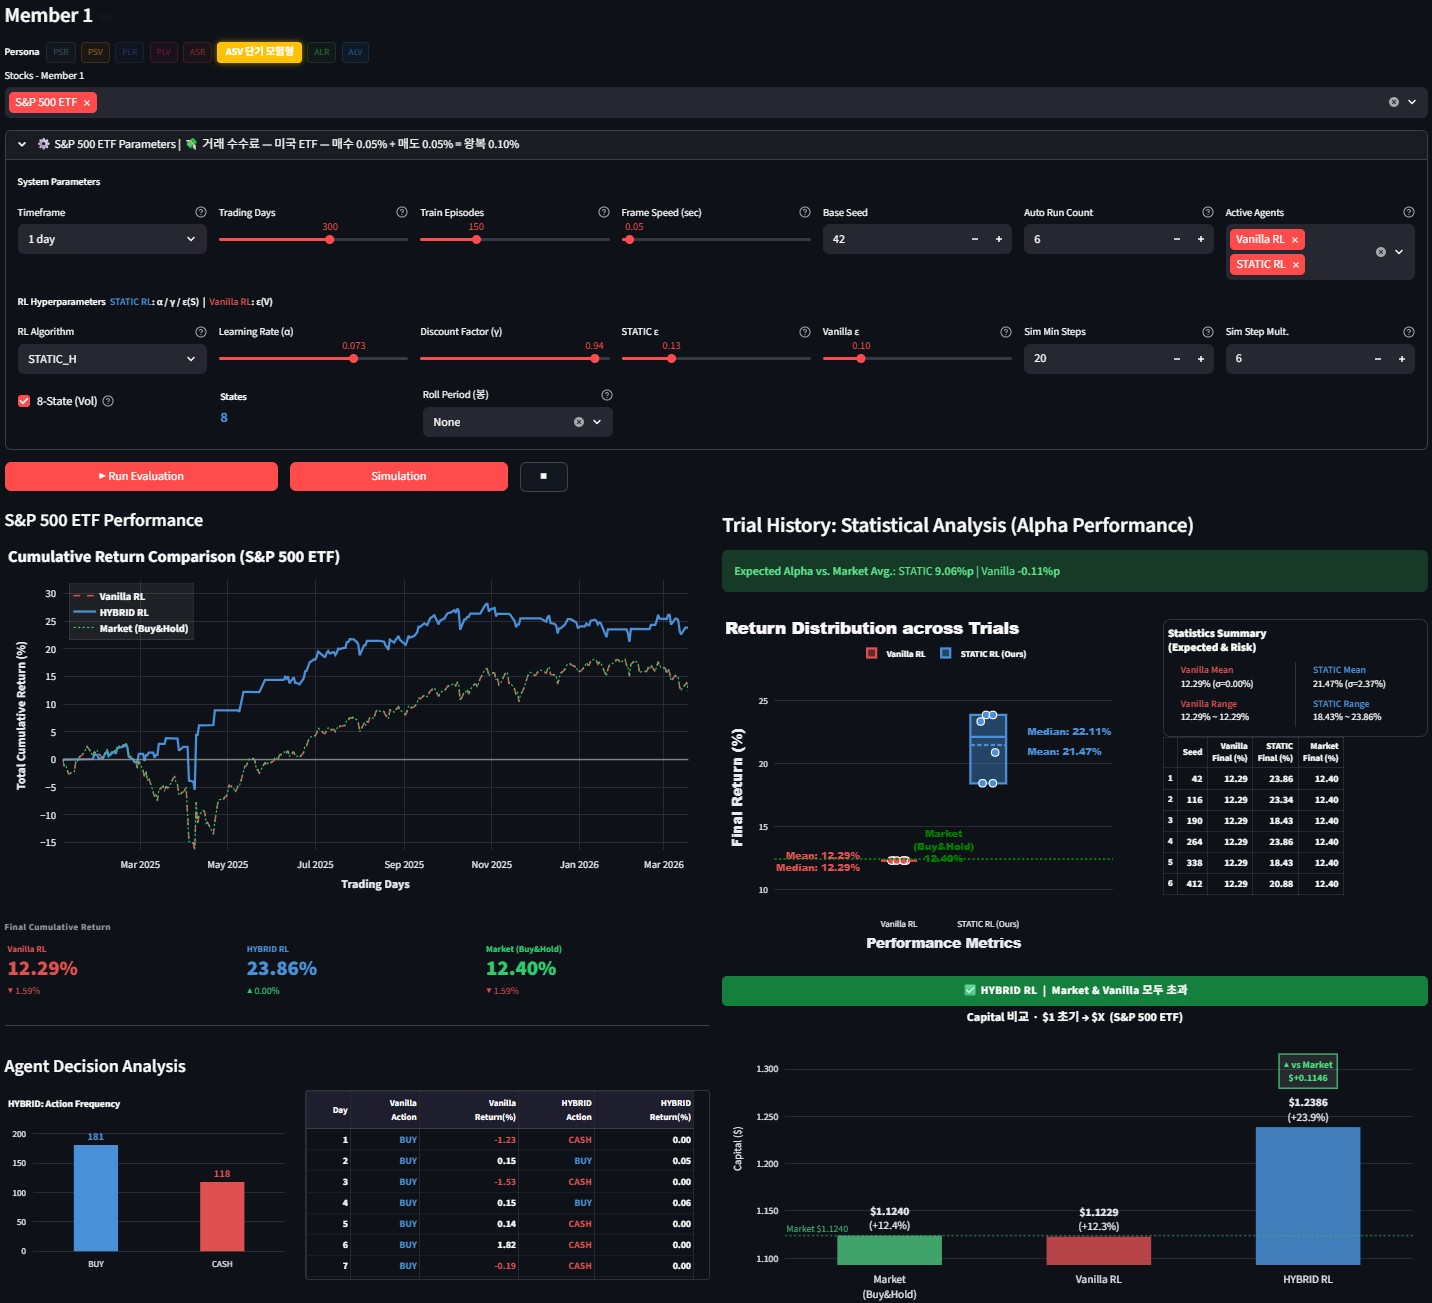
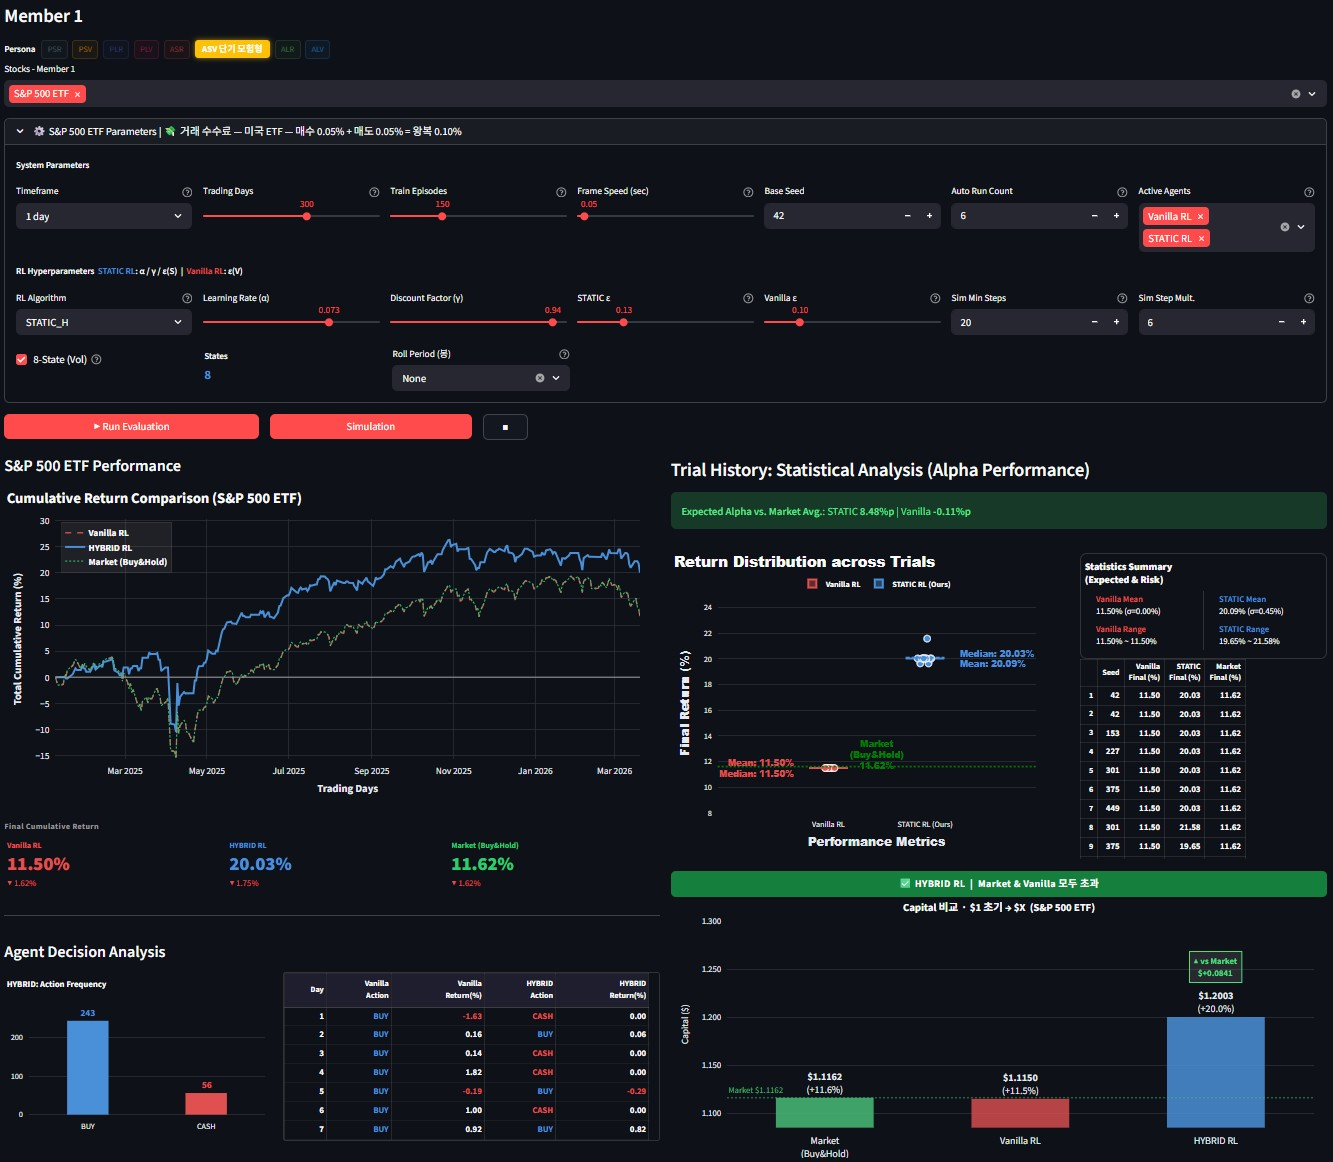
CMF 2-4

diff --git a/Presentation_Bellman_to_Static_H.html b/Presentation_Bellman_to_Static_H.html
@@ -966,7 +966,7 @@
           <div class="rb-label">
             TASK-CONSTRAINED RL COLD-START · MULTI-AGENT TRADING SIMULATOR
           </div>
-          <div class="rb-val"><!-- @tf-banner@ -->Team Fund: +35.47%</div>
+          <div class="rb-val"><!-- @tf-banner@ -->Team Fund: +32.82%</div>
           <div class="rb-desc" style="color: #c0e8d0">
             6종목 전 양수 Alpha Gap · PG Actor-Critic Optimizer · Tabular PPO
             Clipping + Adaptive Temperature
@@ -1001,8 +1001,7 @@
                 margin: 0.5rem 0;
               "
             >
-              <!-- @m1-ret@ -->+21.84%
-            </div>
+              <!-- @m1-ret@ -->+20.03%</div>
             <div
               style="
                 font-family: var(--mono);
@@ -1010,8 +1009,7 @@
                 color: var(--green);
               "
             >
-              <!-- @m1-alpha@ -->Alpha +8.4%p
-            </div>
+              <!-- @m1-alpha@ -->Alpha +8.4%p</div>
             <div style="font-size: 0.72rem; color: #a0b8cc; margin-top: 0.3rem">
               8-State · lr=0.073 · γ=0.94
             </div>
@@ -1035,8 +1033,7 @@
                 margin: 0.5rem 0;
               "
             >
-              <!-- @m2-ret@ -->+60.62%
-            </div>
+              <!-- @m2-ret@ -->+64.79%</div>
             <div
               style="
                 font-family: var(--mono);
@@ -1044,8 +1041,7 @@
                 color: var(--gold);
               "
             >
-              <!-- @m2-alpha@ -->Alpha +26.3%p
-            </div>
+              <!-- @m2-alpha@ -->Alpha +33.1%p</div>
             <div style="font-size: 0.72rem; color: #a0b8cc; margin-top: 0.3rem">
               4-State · lr=0.080 · γ=0.91
             </div>
@@ -1069,8 +1065,7 @@
                 margin: 0.5rem 0;
               "
             >
-              <!-- @m3-ret@ -->+124.33%
-            </div>
+              <!-- @m3-ret@ -->+125.64%</div>
             <div
               style="
                 font-family: var(--mono);
@@ -1078,8 +1073,7 @@
                 color: var(--green);
               "
             >
-              <!-- @m3-alpha@ -->Alpha +9.4%p
-            </div>
+              <!-- @m3-alpha@ -->Alpha +10.7%p</div>
             <div style="font-size: 0.72rem; color: #a0b8cc; margin-top: 0.3rem">
               8-State · lr=0.050 · γ=0.88
             </div>
@@ -1103,8 +1097,7 @@
                 margin: 0.5rem 0;
               "
             >
-              <!-- @m4-ret@ -->+51.03%
-            </div>
+              <!-- @m4-ret@ -->+44.95%</div>
             <div
               style="
                 font-family: var(--mono);
@@ -1112,8 +1105,7 @@
                 color: var(--green);
               "
             >
-              <!-- @m4-alpha@ -->Alpha +20.7%p
-            </div>
+              <!-- @m4-alpha@ -->Alpha +14.7%p</div>
             <div style="font-size: 0.72rem; color: #a0b8cc; margin-top: 0.3rem">
               8-State · Roll=30봉 · lr=0.038
             </div>
@@ -1137,8 +1129,7 @@
                 margin: 0.5rem 0;
               "
             >
-              <!-- @m5-ret@ -->+29.02%
-            </div>
+              <!-- @m5-ret@ -->+27.34%</div>
             <div
               style="
                 font-family: var(--mono);
@@ -1146,8 +1137,7 @@
                 color: var(--green);
               "
             >
-              <!-- @m5-alpha@ -->Alpha +6.1%p
-            </div>
+              <!-- @m5-alpha@ -->Alpha +4.5%p</div>
             <div style="font-size: 0.72rem; color: #a0b8cc; margin-top: 0.3rem">
               8-State · Roll=60봉 · lr=0.026
             </div>
@@ -1171,8 +1161,7 @@
                 margin: 0.5rem 0;
               "
             >
-              <!-- @m6-ret@ -->+86.06%
-            </div>
+              <!-- @m6-ret@ -->+74.66%</div>
             <div
               style="
                 font-family: var(--mono);
@@ -1180,8 +1169,7 @@
                 color: var(--green);
               "
             >
-              <!-- @m6-alpha@ -->Alpha +16.0%p
-            </div>
+              <!-- @m6-alpha@ -->Alpha +15.2%p</div>
             <div style="font-size: 0.72rem; color: #a0b8cc; margin-top: 0.3rem">
               8-State · lr=0.022 · γ=0.95
             </div>
@@ -5056,8 +5044,8 @@
               <td>S&P 500 ETF</td>
               <td class="mono">SPY</td>
               <td>8-State</td>
-              <td class="mono pos"><!-- @t-m1-s@ -->+21.84%</td>
-              <td class="mono"><!-- @t-m1-m@ -->13.41%</td>
+              <td class="mono pos"><!-- @t-m1-s@ -->+20.03%</td>
+              <td class="mono"><!-- @t-m1-m@ -->11.62%</td>
               <td class="mono pos"><!-- @t-m1-a@ -->+8.4%p</td>
               <td class="mono"><!-- @t-m1-mdd@ -->-14.56%</td>
               <td
@@ -5075,10 +5063,10 @@
               <td>Nasdaq 100 ETF</td>
               <td class="mono">QQQ</td>
               <td>4-State</td>
-              <td class="mono pos"><!-- @t-m2-s@ -->+60.62%</td>
-              <td class="mono"><!-- @t-m2-m@ -->34.29%</td>
-              <td class="mono star"><!-- @t-m2-a@ -->+26.3%p</td>
-              <td class="mono"><!-- @t-m2-mdd@ -->-10.25%</td>
+              <td class="mono pos"><!-- @t-m2-s@ -->+64.79%</td>
+              <td class="mono"><!-- @t-m2-m@ -->31.66%</td>
+              <td class="mono star"><!-- @t-m2-a@ -->+33.1%p</td>
+              <td class="mono"><!-- @t-m2-mdd@ -->-12.88%</td>
               <td
                 style="
                   font-family: var(--mono);
@@ -5094,12 +5082,11 @@
               <td>KOSPI 지수</td>
               <td class="mono">^KS11</td>
               <td>8-State</td>
-              <td class="mono pos"><!-- @t-m3-s@ -->+124.33%</td>
+              <td class="mono pos"><!-- @t-m3-s@ -->+125.64%</td>
               <td class="mono"><!-- @t-m3-m@ -->114.90%</td>
-              <td class="mono pos"><!-- @t-m3-a@ -->+9.4%p</td>
+              <td class="mono pos"><!-- @t-m3-a@ -->+10.7%p</td>
               <td class="mono" style="color: var(--red)">
-                <!-- @t-m3-mdd@ -->-19.24%
-              </td>
+                <!-- @t-m3-mdd@ -->-19.24%</td>
               <td
                 style="
                   font-family: var(--mono);
@@ -5115,12 +5102,11 @@
               <td>KOSDAQ 지수</td>
               <td class="mono">^KQ11</td>
               <td>8-State Roll=30</td>
-              <td class="mono pos"><!-- @t-m4-s@ -->+51.03%</td>
+              <td class="mono pos"><!-- @t-m4-s@ -->+44.95%</td>
               <td class="mono"><!-- @t-m4-m@ -->30.30%</td>
-              <td class="mono pos"><!-- @t-m4-a@ -->+20.7%p</td>
+              <td class="mono pos"><!-- @t-m4-a@ -->+14.7%p</td>
               <td class="mono" style="color: var(--red)">
-                <!-- @t-m4-mdd@ -->-17.97%
-              </td>
+                <!-- @t-m4-mdd@ -->-18.09%</td>
               <td
                 style="
                   font-family: var(--mono);
@@ -5136,9 +5122,9 @@
               <td>미국배당 ETF</td>
               <td class="mono">SCHD</td>
               <td>8-State Roll=60</td>
-              <td class="mono pos"><!-- @t-m5-s@ -->+29.02%</td>
-              <td class="mono"><!-- @t-m5-m@ -->22.89%</td>
-              <td class="mono pos"><!-- @t-m5-a@ -->+6.1%p</td>
+              <td class="mono pos"><!-- @t-m5-s@ -->+27.34%</td>
+              <td class="mono"><!-- @t-m5-m@ -->22.84%</td>
+              <td class="mono pos"><!-- @t-m5-a@ -->+4.5%p</td>
               <td class="mono"><!-- @t-m5-mdd@ -->-9.11%</td>
               <td
                 style="
@@ -5155,12 +5141,11 @@
               <td>로열 골드</td>
               <td class="mono">RGLD</td>
               <td>8-State</td>
-              <td class="mono pos"><!-- @t-m6-s@ -->+86.06%</td>
-              <td class="mono"><!-- @t-m6-m@ -->70.05%</td>
-              <td class="mono pos"><!-- @t-m6-a@ -->+16.0%p</td>
+              <td class="mono pos"><!-- @t-m6-s@ -->+74.66%</td>
+              <td class="mono"><!-- @t-m6-m@ -->59.48%</td>
+              <td class="mono pos"><!-- @t-m6-a@ -->+15.2%p</td>
               <td class="mono" style="color: var(--red)">
-                <!-- @t-m6-mdd@ -->-26.03%
-              </td>
+                <!-- @t-m6-mdd@ -->-29.27%</td>
               <td
                 style="
                   font-family: var(--mono);
@@ -5178,11 +5163,10 @@
           <div class="rb-label">
             팀 포트폴리오 최종 성과 (Softmax 가중 합성)
           </div>
-          <div class="rb-val"><!-- @tf-results@ -->Team Fund: +35.47%</div>
+          <div class="rb-val"><!-- @tf-results@ -->Team Fund: +32.82%</div>
           <div class="rb-desc">
             6명 전원 STATIC_H로 양수 Alpha Gap 달성 ·
-            <!-- @best-alpha@ -->최고 Alpha: M2 Nasdaq 100 ETF +26.3%p 🏆
-          </div>
+            <!-- @best-alpha@ -->최고 Alpha: M2 Nasdaq 100 ETF +33.1%p 🏆</div>
         </div>
 
         <hr class="divider" />
@@ -5285,7 +5269,7 @@
             <div class="sum-desc">
               Adaptive Temperature + Tabular PPO Clipping<br />
               (Su et al. 2026 논문 기반).<br /><br />
-              6종목 전 양수 Alpha, Team +42.58%.
+              6종목 전 양수 Alpha, Team +32.82%.
             </div>
           </div>
         </div>
@@ -5398,7 +5382,7 @@
             <tr>
               <td>배포 환경</td>
               <td>YouTube TPU v6e · 20M 아이템</td>
-              <td>6종목 · Team Fund +42.58%</td>
+              <td>6종목 · Team Fund +32.82%</td>
             </tr>
             <tr>
               <td class="hl">공통 통찰</td>
@@ -5600,7 +5584,7 @@
             <p style="font-size: 0.82rem; color: #c0d4e8; line-height: 1.8">
               - 워크포워드 검증(앞 70% 학습 / 뒤 30% OOS)으로 과적합을 방지한 상태에서, STATIC_H는 6개 종목 전체에서 시장 대비 양수 Alpha Gap을 달성했다.<br />
               - Vanilla Q-Learning 대비 풍부한 4/8 상태 공간, 확률적 정책, 동적 엔트로피, PPO 클리핑의 복합 효과가
-              <strong style="color: var(--green)">Team Fund +42.58%</strong>라는 단일 숫자로 수렴한다.<br />
+              <strong style="color: var(--green)">Team Fund +32.82%</strong>라는 단일 숫자로 수렴한다.<br />
               - Bellman의 재귀 공식 하나에서 출발하여 실전 트레이딩 시스템까지 — 모든 것은 연결된 하나의 수학적 체계다.
             </p>
           </div>
@@ -5637,7 +5621,7 @@
         &nbsp;·&nbsp; MULTI-AGENT TRADING SIMULATOR
       </p>
       <p style="margin-top: 0.5rem; font-size: 0.52rem">
-        Team Fund: +35.47% &nbsp;·&nbsp; 6종목 전 양수 Alpha Gap &nbsp;·&nbsp;
+        Team Fund: +32.82% &nbsp;·&nbsp; 6종목 전 양수 Alpha Gap &nbsp;·&nbsp;
         PG Actor-Critic Optimizer + Tabular PPO Clipping + Adaptive Temperature
       </p>
     </footer>
